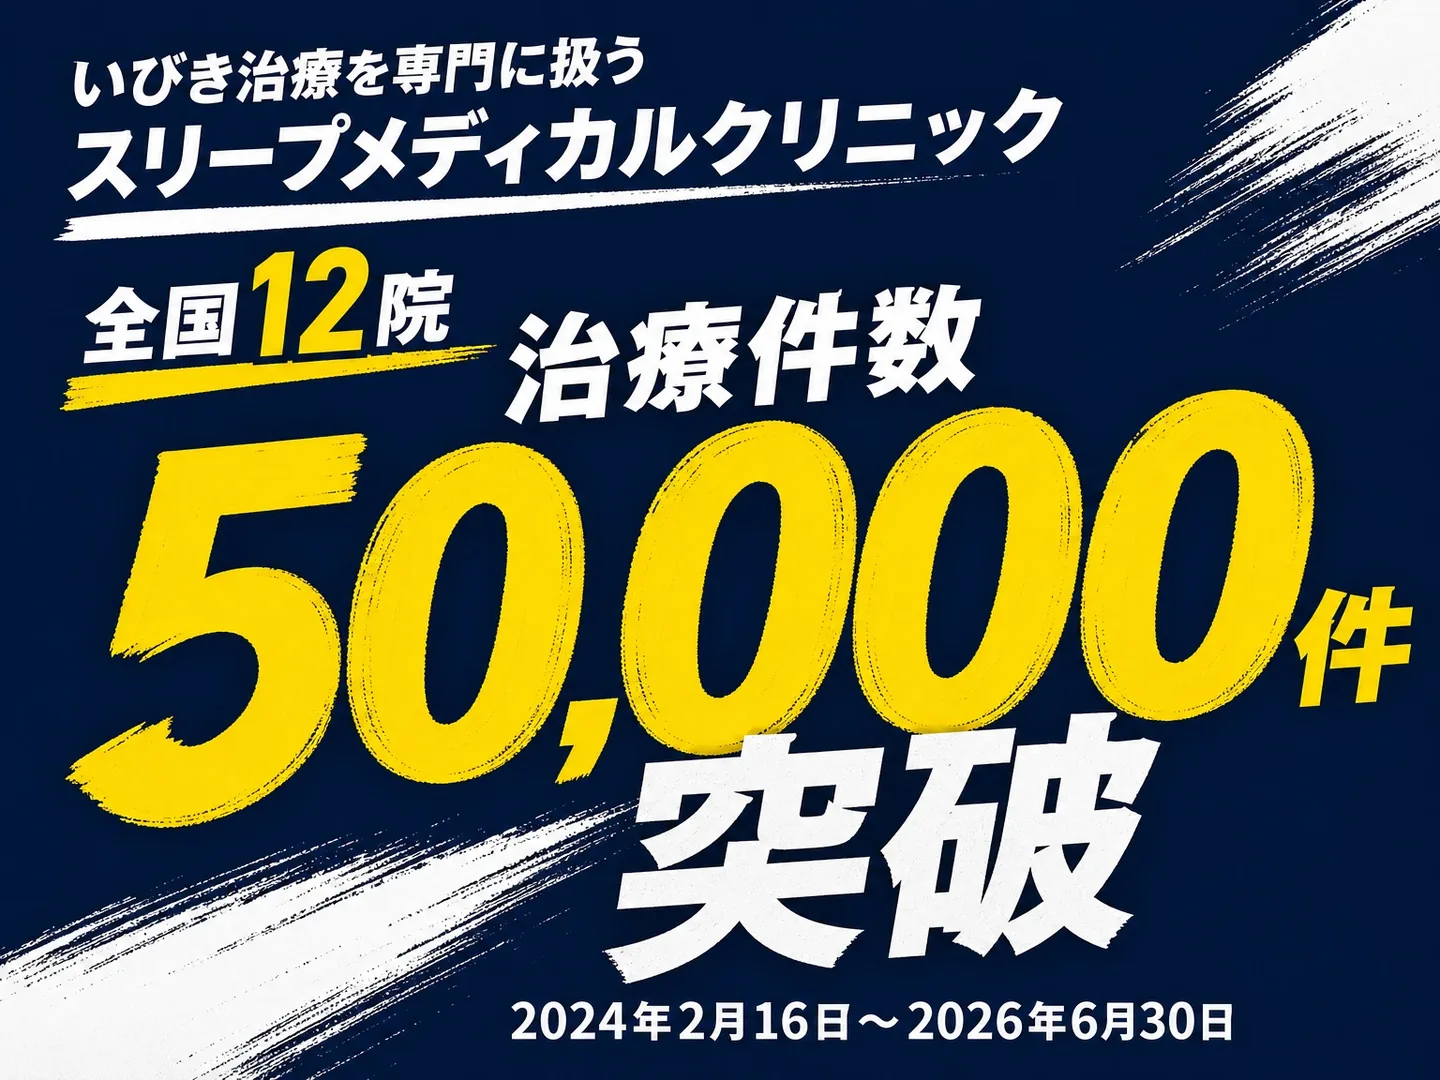
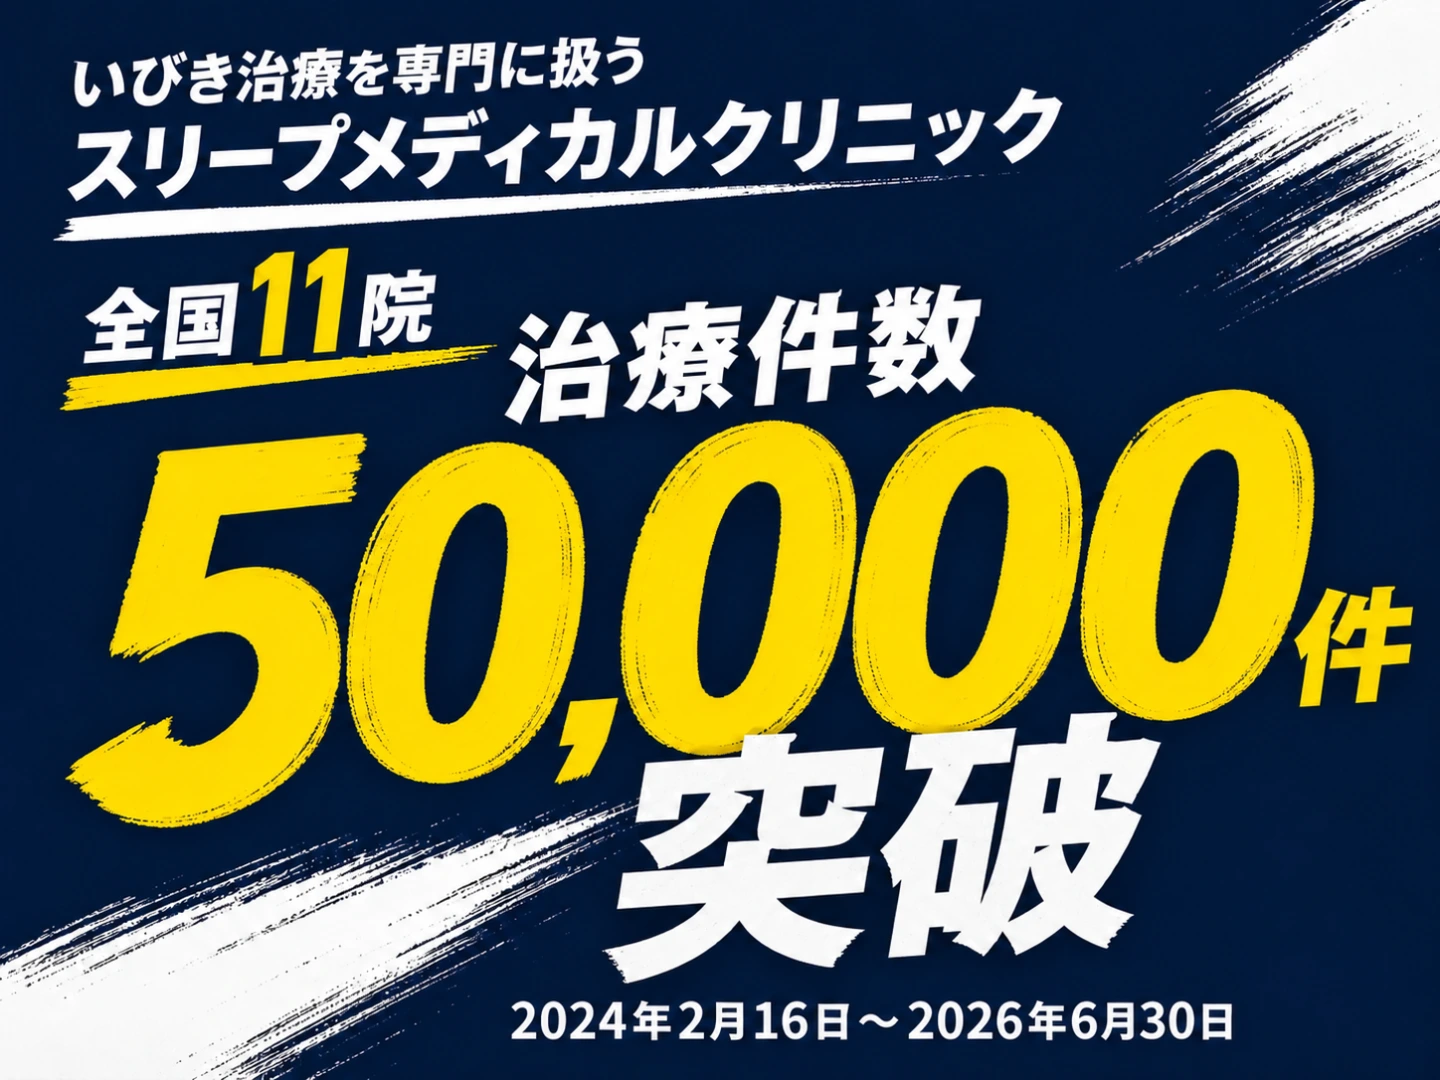
Update clinic count graphic to 11 locations

diff --git a/index.html b/index.html
@@ -62,7 +62,7 @@
 <p class="question">ひとりで悩まず、<br/>いびきを相談できる場所へ。</p>
 <img alt="スリープメディカルクリニック" class="logo" src="logo.svg"/>
 <figure class="media"><img alt="スリープメディカルクリニックの公式院内写真" height="600" src="clinic-opt-v23.webp" width="900"/></figure>
-<figure class="media generated-media"><img alt="いびき治療を専門に扱うスリープメディカルクリニック。全国12院。治療件数50,000件突破。2024年2月16日〜2026年6月30日。" decoding="async" height="1152" loading="lazy" src="article-clinic-proof-v7-opt-v23.webp" width="1536"/></figure>
+<figure class="media generated-media"><img alt="いびき治療を専門に扱うスリープメディカルクリニック。全国11院。治療件数50,000件突破。2024年2月16日〜2026年6月30日。" decoding="async" height="1152" loading="lazy" src="article-clinic-proof-v7-opt-v23.webp" width="1536"/></figure>
 <p class="note">※治療件数：2024年2月16日〜2026年6月30日。<a href="https://sleep-medical.net/" rel="noopener noreferrer" target="_blank">公式サイト掲載情報</a></p>
 <p class="body-copy">「いびきを指摘された」「朝から眠い」「息が止まっていたと言われた」。気になっていることを、<strong class="emphasis-red">そのまま相談できるんです。</strong></p>
 <p class="note">※同院ではSAS検査自体は行っておらず、疑われる場合には提携医療機関の案内サポートがあります。</p>
